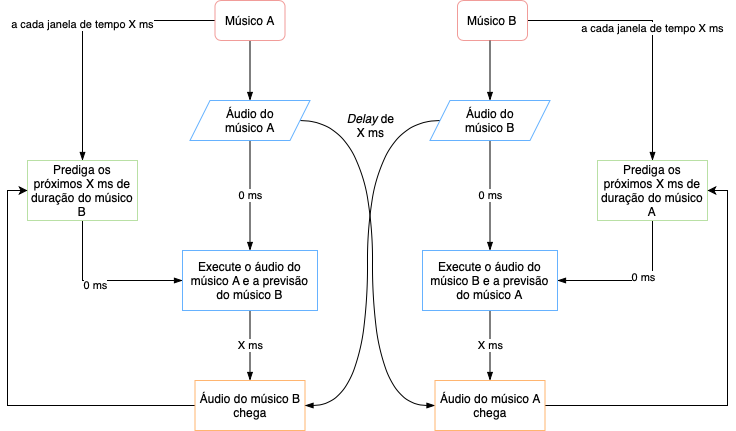
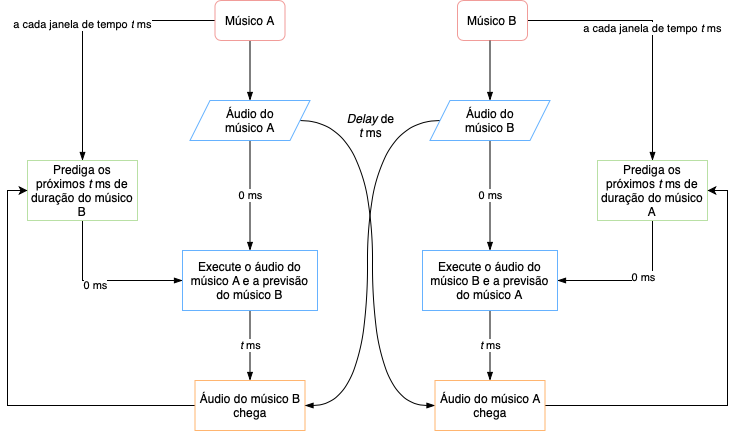
thesis: separate proposed solution in sections

diff --git a/thesis/3-proposta-de-solucao.tex b/thesis/3-proposta-de-solucao.tex
@@ -2,25 +2,12 @@
 
 No contexto de videogames que utilizam reações visuais/auditivas como mecânica essencial de jogabilidade, existe uma alta sensibilidade à latência de \textit{inputs}. Como forma de mitigar esse problema, a técnica de previsão no lado do cliente, como descrito na \secref{sec:client_side_prediction}, é implementada em diversos \textit{games} e é muito bem vista pelos jogadores \cite{rollback_success}.
 
-Paralelamente, ao observar ambientes musicais \textit{online}, percebe-se o mesmo requisito de baixa latência para manter a fluidez dos participantes, como descrito na \secref{sec:problem}. Portanto, questiona-se: é possível aplicar técnicas de predição no lado do cliente nesse contexto, de forma a permitir sessões artísticas satisfatórias entre os músicos?
+Similarmente, ao observar ambientes musicais \textit{online}, percebe-se o mesmo requisito de baixa latência para manter a sensação fluidez e sincronia entre os participantes, como descrito na \secref{sec:problem}. Portanto, questiona-se: é possível aplicar técnicas de predição no lado do cliente nesse contexto, de forma a permitir sessões artísticas satisfatórias entre os músicos?
 
 Evidentemente, apesar de compartilharem um requisito de baixa tolerância a latência, as naturezas dos problemas são significativamente divergentes. A mera implementação de previsão no lado do cliente no contexto musical implica em dois grandes problemas: (1) a impossibilidade de retornar ao último momento da música em caso de erro na previsão e; (2) a enorme dimensionalidade da representação digital de áudio.
 
-A aplicação de previsão no lado do cliente, quando aplicado a videogames, baseia-se no fato que os eventuais retornos ao estado anterior à previsão em caso de erros não são suficientemente prejudiciais à experiência do jogador. No contexto de música, no entanto, devido sua natureza contínua na linha do tempo, o conceito de estados não pode ser replicado e, portanto, não faz sentido retornarmos a um momento anterior.
+A técnica de previsão no lado do cliente, quando aplicada a videogames, baseia-se no fato que os eventuais retornos aos estados anteriores às previsões em caso de erros não são suficientemente prejudiciais à experiência do jogador. No contexto de música, no entanto, devido sua natureza contínua na linha do tempo, o conceito de estados não pode ser replicado e, portanto, não faz sentido retornarmos a um momento anterior.
  
 Ademais, a quantidade de \textit{inputs} produzidos pelos jogadores é ínfima quando comparada a representação de áudio digital. Estima-se que os jogadores profissionais mais técnicos de \textit{Super Smash Bros. Melee}, um jogo de luta em plataformas, produzem em média cerca de 6 \textit{inputs} por segundo \cite{melee_inputs_per_second}, variando de acordo com o momento do jogo. Por outro lado, uma transmissão de áudio com \textit{sample rate} de 44,1 Khz produz consistentemente, por definição, 44.100 diferentes valores no mesmo espaço de tempo \cite{jukebox_dimension}. O modelo preditivo proposto por Bernier \cite{client-side-prediction} replica os últimos \textit{inputs} reconhecidos pelo servidor; se aplicássemos o mesmo método no contexto musical, efetivamente estaríamos ``atrasando'' os \textit{inputs} de áudio, portanto, perdendo a sincronia entre os participantes.
 
 Portanto, a acurácia do modelo preditivo em ambientes musicais é de suma importância, uma vez que a ``volta no tempo'' é impossível. Atingir esse alto nível de acurácia, por sua vez, é um enorme desafio, dada a dimensionalidade da representação de áudio digital. Naturalmente, o tempo total gasto na geração da previsão não pode exceder o tempo da janela prevista - caso ocorra, retornaremos ao mesmo problema enfrentado pelas soluções síncronas apresentadas na sessão \secref{sec:delay-based-audio-solutions}. 
-
-Propomos, então, uma variação da implementação de Bernier \cite{client-side-prediction} de previsão no lado do cliente, para sua aplicação no contexto musical (\figref{fig:rollback_music_diagram}). Similarmente à técnica original, janelas de áudios são previstos baseando-se em entradas anteriores. Entretanto, nenhuma correção é feita, mantendo a linearidade da música.
-
-\begin{figure}[htbp]
-\centering
-\includegraphics[width=1\textwidth]{images/rollback-music.png}
-\caption{Diagrama demonstrando a adaptação do algoritmo de previsão no lado do cliente aplicado para \textit{streaming} colaborativo de música \textit{online}. Na imagem, ``X'' representa a duração da janela de previsão, medido em milissegundos.}
-\label{fig:rollback_music_diagram}
-\end{figure}
-
-Em Bernier, a janela de tempo de cada conjunto de previsões é definida de acordo com o FPS e a velocidade de conexão entre os participantes. Na adaptação musical, além do tempo de ida e volta dos pacotes entre os participantes (\textit{ping}), propomos a utilização de outros parâmetros para a decisão dessa janela, como o BPM (batimentos por minuto) da música tocada ou outros valores arbitrários. A escolha dessa janela é fundamental - durações muito longas possuem muita informação, porém, são mais difíceis de processar; e o inverso ocorre para janelas muito curtas.
-
-Propomos, portanto, dois modelos preditivos para música, dividido em dois ciclos de pesquisa. No \chapref{chap:lstm}, o primeiro ciclo, utilizamos a arquitetura de aprendizagem de máquina em camadas LSTM (\textit{Long short-term memory)} \cite{lstm} para gerar sequências de sinais digitais, baseadas nas entradas anteriores. Já no \chapref{chap:dtw}, no segundo ciclo, usamos o algoritmo DTW (\textit{Dynamic Time Warping}) \cite{dtw} para identificar janelas semelhantes em uma base de dados e, a partir dessa informação, reproduzir a próxima janela de áudio, também armazenada na mesma base de dados.

diff --git a/thesis/3.1-adapter.tex b/thesis/3.1-adapter.tex
@@ -1,0 +1,14 @@
+\section{Adaptação do \textit{client-side prediction} no contexto musical \textit{online}}
+
+Propomos, então, uma variação da implementação de Bernier \cite{client-side-prediction} de previsão no lado do cliente, para sua aplicação no contexto musical (\figref{fig:rollback_music_diagram}). Similarmente à técnica original, janelas de áudios são previstos baseando-se em entradas anteriores. Entretanto, nenhuma correção é realizada em casos de erro, mantendo a linearidade da música.
+
+\begin{figure}[htbp]
+\centering
+\includegraphics[width=1\textwidth]{images/rollback-music.png}
+\caption{Diagrama demonstrando a adaptação do algoritmo de previsão no lado do cliente aplicado para \textit{streaming} colaborativo de música \textit{online}. Na imagem, $t$ representa a duração da janela de previsão, medido em milissegundos.}
+\label{fig:rollback_music_diagram}
+\end{figure}
+
+Em Bernier, a janela de tempo de cada conjunto de previsões é definida de acordo com o FPS e a velocidade de conexão entre os participantes. Para adaptação musical, além do tempo de ida e volta dos pacotes entre os participantes (\textit{ping}), propomos a utilização de outros parâmetros para a decisão dessa janela, como o BPM (batimentos por minuto) da música tocada ou outros valores arbitrários. A escolha dessa janela é fundamental - durações muito longas possuem muita informação, porém, são mais difíceis de processar; e o inverso ocorre para janelas muito curtas.
+
+Propomos, portanto, dois modelos preditivos para música, explorados em dois ciclos de pesquisa. No \chapref{chap:lstm}, o primeiro ciclo, utilizamos a arquitetura de aprendizagem de máquina em camadas LSTM (\textit{Long short-term memory)} \cite{lstm} para gerar sequências de sinais digitais, baseadas nas entradas anteriores. Já no \chapref{chap:dtw}, no segundo ciclo, usamos o algoritmo DTW (\textit{Dynamic Time Warping}) \cite{dtw} para identificar janelas semelhantes em uma base de dados e, a partir dessa informação, reproduzir a próxima janela de áudio, também armazenada na mesma base de dados.

diff --git a/thesis/2.3-rollback_netcode.tex b/thesis/2.3-rollback_netcode.tex
@@ -15,12 +15,12 @@ No contexto de ambientes musicais \textit{online}, podemos comparar esse método
 
 \subsection{\textit{Client-side prediction}}
 
-A implementação do \textit{Client-side prediction} (\figref{fig:rollback_diagram}), por outro lado, aumenta a tolerância da espera dos pacotes propondo a previsão dos \textit{inputs} dos jogadores antes que cheguem via Internet utilizando dados já recebidos anteriormente. Caso as previsões sejam incorretas, o estado de jogo no momento em que a previsão foi realizado é retornado, portanto, o nome popular ``\textit{rollback}'' (reversão) \cite{rollback}.
+A implementação do \textit{Client-side prediction} \footnote{Tradução da imagem criada por GerardSN, CC BY-SA 4.0. Disponível em https://commons.wikimedia.org/w/index.php?curid=97477279.} (\figref{fig:rollback_diagram}), por outro lado, aumenta a tolerância da espera dos pacotes propondo a previsão dos \textit{inputs} dos jogadores antes que cheguem via Internet utilizando dados já recebidos anteriormente. Caso as previsões sejam incorretas, o estado de jogo no momento em que a previsão foi realizado é retornado, portanto, o nome popular ``\textit{rollback}'' (reversão) \cite{rollback}.
 
 \begin{figure}[htbp]
 \centering
 \includegraphics[width=1\textwidth]{images/rollback.png}
-\caption{Diagrama demonstrando o processo de execução e sincronização dos \textit{inputs} de dois jogadores (com \textit{ping} de 90 ms entre eles) em um jogo \textit{online} utilizando \textit{client-side prediction} em um modelo \textit{peer-to-peer}. Tradução da imagem criada por GerardSN, CC BY-SA 4.0, https://commons.wikimedia.org/w/index.php?curid=97477279.}
+\caption{Diagrama demonstrando o processo de execução e sincronização dos \textit{inputs} de dois jogadores (com \textit{ping} de 90 ms entre eles) em um jogo \textit{online} utilizando \textit{client-side prediction} em um modelo \textit{peer-to-peer}.}
 \label{fig:rollback_diagram}
 \end{figure}
 

diff --git a/thesis/3.2-success-metrics.tex b/thesis/3.2-success-metrics.tex
@@ -1,0 +1,11 @@
+\section{Métricas de sucesso dos modelos preditivos}
+
+Como mencionado, existem alguns requisitos que os modelos preditivos propostos precisam cumprir para serem considerados bem sucedidos. Em cada ciclo, diferentes metodologias foram utilizadas para demonstrar essas métricas.
+
+\subsection{Corretude das previsões}
+
+Devido à característica de linearidade de tempo que a música possui, não é possível ``retornar'' a um estado passado da música. Dessa forma, é importante que os modelos sejam os mais acurados possíveis.
+
+\subsection{Tempo de geração de previsões}
+
+Supondo que \textit{t} é o tempo escolhido das janelas de previsão de áudio e \textit{p} é o tempo levado para gerar essas previsões, é imprescindível para o sucesso dos modelos preditivos que $t \leq p $. Caso contrário, o tempo excedente de processamento cria um \textit{delay} entre o que está sendo executado pelo músico remoto e o que está sendo reproduzido localmente e, consequentemente, causando dessincronia entre os músicos.

diff --git a/thesis/index.tex b/thesis/index.tex
@@ -159,6 +159,8 @@
 \include{2.2-estado_da_arte}
 \include{2.3-rollback_netcode}
 \include{3-proposta-de-solucao}
+\include{3.1-adapter}
+\include{3.2-success-metrics}
 \include{4-ciclo_1_lstm}
 \include{4.1-proposta_de_solucao_lstm}
 \include{4.2-avaliacao-lstm}
